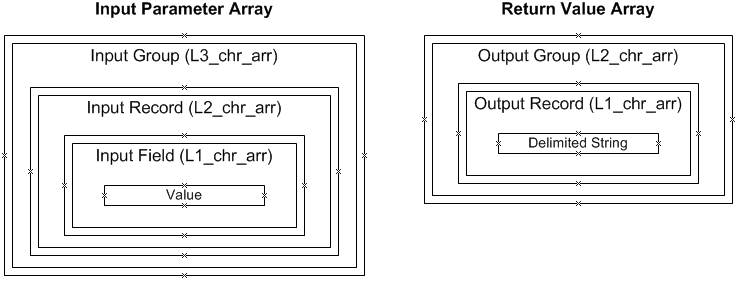
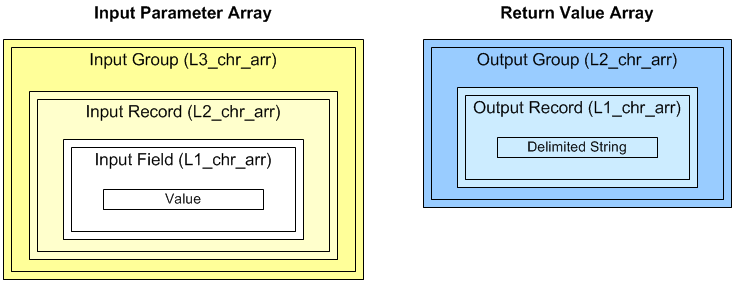
Added link to blog "The Math Function Unit Testing Design Pattern"
Made diagram colours consistent with the blog.

diff --git a/README.md b/README.md
@@ -6,7 +6,7 @@ Oracle PL/SQL Unit Testing Module
 
 TRansactional API Testing (TRAPIT) framework for Oracle SQL and PL/SQL unit testing.
 
-This is a lightweight framework for unit testing SQL and PL/SQL based on the 'Math Function Unit Testing design pattern'.
+This is a lightweight framework for unit testing SQL and PL/SQL based on [The Math Function Unit Testing Design Pattern](https://brenpatf.github.io/2023/06/05/the-math-function-unit-testing-design-pattern.html).
 
 There is a blog post on scenario selection in unit testing that may be of interest:
 
@@ -26,7 +26,7 @@ I explained the concepts for the unit testing design pattern in relation specifi
 
 - [The Database API Viewed As A Mathematical Function: Insights into Testing](https://www.slideshare.net/brendanfurey7/database-api-viewed-as-a-mathematical-function-insights-into-testing)
 
-I later named the approach 'The Math Function Unit Testing design pattern' when I applied it in Javascript and wrote a JavaScript program to format results both in plain text and as HTML pages:
+I later named the approach [The Math Function Unit Testing Design Pattern](https://brenpatf.github.io/2023/06/05/the-math-function-unit-testing-design-pattern.html) when I applied it in Javascript and wrote a JavaScript program to format results both in plain text and as HTML pages:
 - [Trapit - JavaScript Unit Tester/Formatter](https://github.com/BrenPatF/trapit_nodejs_tester)
 
 The module also allowed for the formatting of results obtained from testing in languages other than JavaScript by means of an intermediate output JSON file. In 2021 I developed a powershell module that included a utility to generate a template for the JSON input scenarios file required by the design pattern:
@@ -53,7 +53,7 @@ Examples of its use in testing four demo PL/SQL APIs can be seen here:
 
 As noted above, the JavaScript module allows for unit testing of JavaScript programs and also the formatting of test results for both JavaScript and non-JavaScript programs. Similarly, the powershell module mentioned allows for unit testing of powershell programs, and also the generation of the JSON input scenarios file template for testing in any language.
 
-In this section we'll start by describing the steps involved in The Math Function Unit Testing design pattern at an overview level. This will show how the generic powershell and JavaScript utilities fit in alongside the language-specific driver utilities.
+In this section we'll start by describing the steps involved in [The Math Function Unit Testing Design Pattern](https://brenpatf.github.io/2023/06/05/the-math-function-unit-testing-design-pattern.html) at an overview level. This will show how the generic powershell and JavaScript utilities fit in alongside the language-specific driver utilities.
 
 Then we'll show how to use the design pattern in unit testing Oracle programs by means of an example from another GitHub project.
 
@@ -63,13 +63,13 @@ Then we'll show how to use the design pattern in unit testing Oracle programs by
 [&darr; Step 2: Create Results Object](#step-2-create-results-object)<br />
 [&darr; Step 3: Format Results](#step-3-format-results)<br />
 
-At a high level the Math Function Unit Testing design pattern involves three main steps:
+At a high level [The Math Function Unit Testing Design Pattern](https://brenpatf.github.io/2023/06/05/the-math-function-unit-testing-design-pattern.html) involves three main steps:
 
 1. Create an input file containing all test scenarios with input data and expected output data for each scenario
 2. Create a results object based on the input file, but with actual outputs merged in, based on calls to the unit under test
 3. Use the results object to generate unit test results files formatted in HTML and/or text
 
-<img src="png/Math Function UT DP - HL Flow.png">
+<img src="png/HLS.png">
 
 The first and third of these steps are supported by generic utilities that can be used in unit testing in any language. The second step uses a language-specific unit test driver utility.
 
@@ -80,9 +80,9 @@ For non-JavaScript programs the results object is materialized using a library p
 This creates a subfolder with name based on the unit test title within the file, and also outputs a summary of the results. The processing is split between three code units:
 - Test Unit: External library function that drives the unit testing with a callback to a specific wrapper function
 - Specific Test Package: This has a 1-line main program to call the library driver function, passing in the callback wrapper function
-- Unit Under Test: Called by the wrapper function, which converts between its specific inputs and outputs and the generic version used by the library package
+- Unit Under Test (API): Called by the wrapper function, which converts between its specific inputs and outputs and the generic version used by the library package
 
-<img src="png/MFUTDP - Flow-Ext.png">
+<img src="png/PFD-Ext.png">
 
 In the first step the external program creates the output results JSON file, while in the second step the file is read into an object by the Trapit library package, which then formats the results.
 
@@ -156,14 +156,14 @@ The test data are read from a table tt_units, with structure:
 
 Unit tests are run by making a call to one of two library subprograms that run all tests for a group name passed in as a parameter.
 
-```
+```sql
 PROCEDURE Run_Tests(p_group_nm VARCHAR2);
 ```
 The above procedure runs the tests for the input group leaving the output JSON files in the assigned directory on the database server.
 
 This version was originally used to execute step 3 separately from step 2.
 
-```
+```sql
 FUNCTION Test_Output_Files(p_group_nm VARCHAR2) RETURN L1_chr_arr;
 ```
 The above function runs the tests for the input group leaving the output JSON files in the assigned directory on the database server, and returns the full file paths in an array.
@@ -174,7 +174,7 @@ This version is used by a Powershell script that combines steps 2 and 3, as show
 [&uarr; Step 2: Create Results Object](#step-2-create-results-object)<br />
 
 Here is the specification for the wrapper function (fixed apart from the function name), with the header comment text.
-```
+```sql
 /***************************************************************************************************
 Purely_Wrap_Uut: Unit test wrapper function for the unit under test
 
@@ -298,7 +298,7 @@ Step 2 requires the writing of a wrapper function that is called by a library pa
 [&uarr; Step 2: Create Results Object](#step-2-create-results-object-1)<br />
 
 Here is an extract from the function body:
-```
+```sql
 FUNCTION Purely_Wrap_Utils(
             p_inp_3lis                     L3_chr_arr)   -- input list of lists (group, record, field)
             RETURN                         L2_chr_arr IS -- output list of lists (group, record)
@@ -413,9 +413,11 @@ SCENARIO 1: Small values [Category Set: Value Size] {
 This section excludes public program units that are only used by the package Trapit_Run.
 
 #### Add_Ttu
+
 ```sql
     Trapit.Add_Ttu(p_unit_test_package_nm, p_purely_wrap_api_function_nm, p_group_nm, p_active_yn, p_input_file);
 ```
+
 Adds a record to tt_units table, with parameters as follows:
 
 - `p_unit_test_package_nm`: unit test package name
@@ -433,6 +435,7 @@ This package runs with Invoker rights, not the default Definer rights, so that d
 ```sql
     Trapit_Run.Run_Tests(p_group_nm);
 ```
+
 Runs the unit test program for each package procedure set to active in tt_units table for a given test group, with parameters as follows:
 
 - `p_group_nm`: test group name
@@ -627,6 +630,7 @@ There are five subfolders below the trapit root folder:
 - [Oracle Instant Client Downloads for Microsoft Windows (x64) 64-bit](https://www.oracle.com/ie/database/technologies/instant-client/winx64-64-downloads.html)
 - [Node.js Downloads](https://nodejs.org/en/download)
 - [Installing Windows PowerShell](https://learn.microsoft.com/en-us/powershell/scripting/windows-powershell/install/installing-windows-powershell)
+- [The Math Function Unit Testing Design Pattern](https://brenpatf.github.io/2023/06/05/the-math-function-unit-testing-design-pattern.html)
 - [Trapit - JavaScript Unit Tester/Formatter](https://github.com/BrenPatF/trapit_nodejs_tester)
 - [Unit Testing, Scenarios and Categories: The SCAN Method](https://brenpatf.github.io/jekyll/update/2021/10/17/unit-testing-scenarios-and-categories-the-scan-method.html)
 - [Powershell Utilities Module](https://github.com/BrenPatF/powershell_utils)
